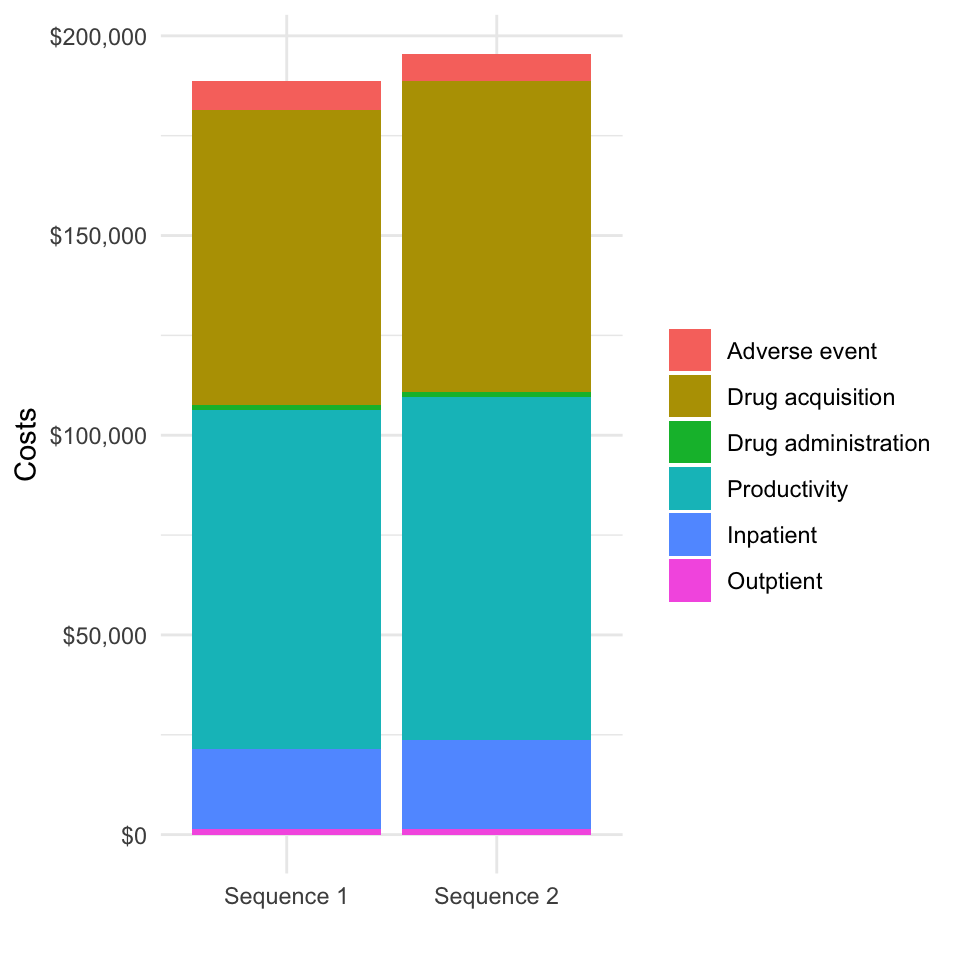
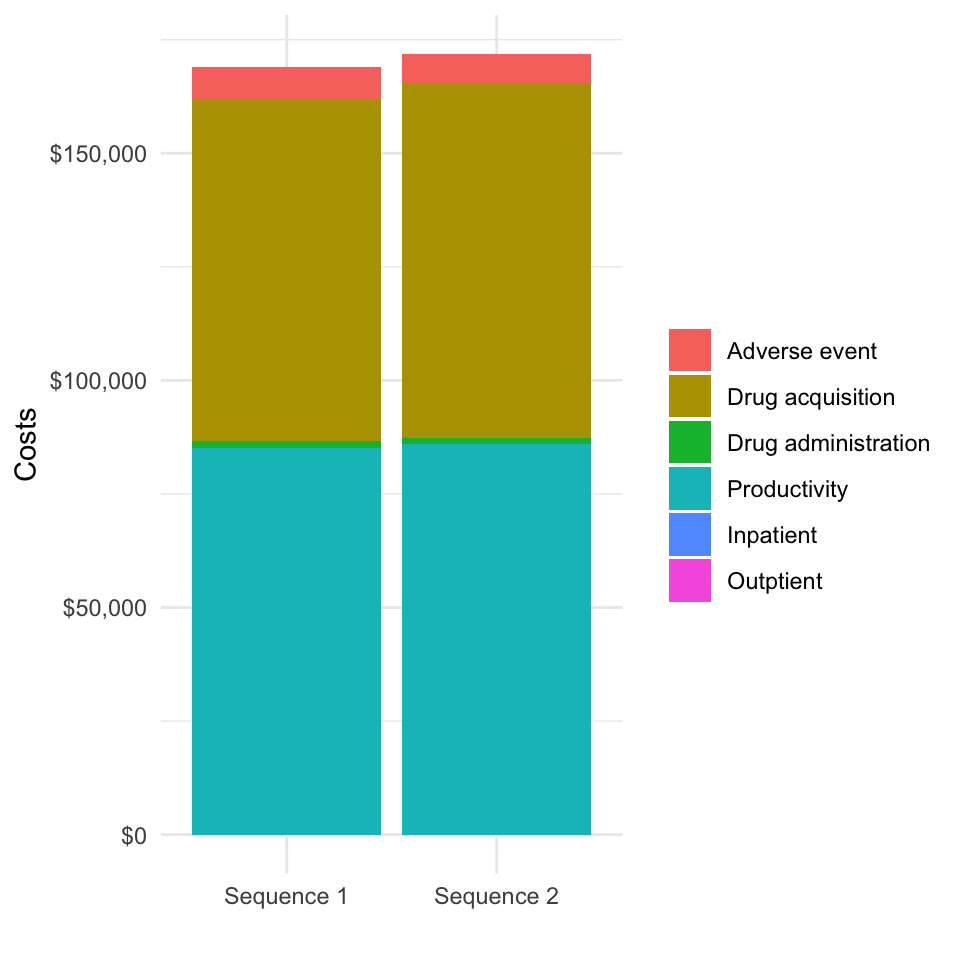
Update inpatient and outpatient parameter estimates

diff --git a/docs/articles/tutorial.html b/docs/articles/tutorial.html
@@ -243,12 +243,12 @@ tmat_3_2L &lt;-<span class="st"> </span><span class="kw"><a href="../reference/c
 transmod_data &lt;-<span class="st"> </span><span class="kw"><a href="../reference/create_transmod_data.html">create_transmod_data</a></span>(struct, tmat, pats)
 ## Print first 5 rows and and 10 covariates from data
 <span class="kw">print</span>(transmod_data[<span class="dv">1</span><span class="op">:</span><span class="dv">5</span>, <span class="dv">1</span><span class="op">:</span><span class="dv">10</span>]) </code></pre></div>
-<pre><code>##    strategy_id patient_id transition_id female    age mutation tx_abb
-## 1:           1          1             1      1 71.076        0    erl
-## 2:           1          1             2      1 71.076        0    erl
-## 3:           1          1             3      1 71.076        0   pbdc
-## 4:           1          1             4      1 71.076        0   pbdc
-## 5:           1          1             5      1 71.076        0   pbdc
+<pre><code>##    strategy_id patient_id transition_id female      age mutation tx_abb
+## 1:           1          1             1      0 64.90543        1    erl
+## 2:           1          1             2      0 64.90543        1    erl
+## 3:           1          1             3      0 64.90543        1    osi
+## 4:           1          1             4      0 64.90543        1    osi
+## 5:           1          1             5      0 64.90543        1    osi
 ##    tx_hist osi_s1p1_scale osi_s1d_scale
 ## 1:    &lt;NA&gt;              1             0
 ## 2:    &lt;NA&gt;              0             1
@@ -516,27 +516,27 @@ knitr<span class="op">::</span><span class="kw"><a href="http://www.rdocumentati
 <tr class="odd">
 <td>Incremental QALYs</td>
 <td align="left">-</td>
-<td align="left">0.06 (0.01, 0.11)</td>
+<td align="left">0.05 (0.00, 0.11)</td>
 </tr>
 <tr class="even">
 <td>Incremental costs ($)</td>
 <td align="left">-</td>
-<td align="left">5,824 (-5,761, 17,692)</td>
+<td align="left">2,241 (-9,316, 12,678)</td>
 </tr>
 <tr class="odd">
 <td>Incremental NMB ($)</td>
 <td align="left">-</td>
-<td align="left">-4 (-7,978, 7,786)</td>
+<td align="left">3,113 (-2,635, 10,327)</td>
 </tr>
 <tr class="even">
 <td>ICER ($ per QALY)</td>
 <td align="left">-</td>
-<td align="left">100,066</td>
+<td align="left">41,859</td>
 </tr>
 <tr class="odd">
 <td>Conclusion</td>
 <td align="left">-</td>
-<td align="left">Not cost-effective</td>
+<td align="left">Cost-effective</td>
 </tr>
 </tbody>
 </table>
@@ -606,23 +606,23 @@ knitr<span class="op">::</span><span class="kw"><a href="http://www.rdocumentati
 <tbody>
 <tr class="odd">
 <td>Life-years stable disease</td>
-<td align="left">0.43 (0.41, 0.46)</td>
+<td align="left">0.44 (0.41, 0.46)</td>
 <td align="left">0.51 (0.48, 0.53)</td>
 </tr>
 <tr class="even">
 <td>Life-years progressed 1L</td>
+<td align="left">0.18 (0.15, 0.21)</td>
 <td align="left">0.18 (0.15, 0.20)</td>
-<td align="left">0.18 (0.16, 0.20)</td>
 </tr>
 <tr class="odd">
 <td>Life-years progressed 2L</td>
-<td align="left">0.17 (0.14, 0.21)</td>
-<td align="left">0.17 (0.14, 0.21)</td>
+<td align="left">0.18 (0.15, 0.21)</td>
+<td align="left">0.17 (0.15, 0.21)</td>
 </tr>
 <tr class="even">
 <td>Health care sector costs</td>
-<td align="left">103,909 (92,888, 116,284)</td>
-<td align="left">109,733 (100,316, 120,494)</td>
+<td align="left">83,703 (72,865, 93,647)</td>
+<td align="left">85,944 (77,176, 94,369)</td>
 </tr>
 <tr class="odd">
 <td>Route of administration</td>
@@ -631,8 +631,8 @@ knitr<span class="op">::</span><span class="kw"><a href="http://www.rdocumentati
 </tr>
 <tr class="even">
 <td>Years since FDA approval</td>
-<td align="left">13.38 (13.30, 13.46)</td>
-<td align="left">4.10 (3.98, 4.23)</td>
+<td align="left">13.36 (13.27, 13.44)</td>
+<td align="left">4.08 (3.95, 4.20)</td>
 </tr>
 </tbody>
 </table>
@@ -664,33 +664,33 @@ knitr<span class="op">::</span><span class="kw"><a href="http://www.rdocumentati
 <tbody>
 <tr class="odd">
 <td>Life-years stable disease</td>
-<td align="left">16.95 (1.45, 33.22)</td>
-<td align="left">72.84 (53.97, 90.88)</td>
+<td align="left">26.10 (3.69, 46.89)</td>
+<td align="left">82.81 (61.13, 97.59)</td>
 </tr>
 <tr class="even">
 <td>Life-years progressed 1L</td>
-<td align="left">46.68 (11.74, 75.16)</td>
-<td align="left">46.36 (14.71, 88.23)</td>
+<td align="left">50.55 (19.81, 82.66)</td>
+<td align="left">48.83 (19.24, 75.31)</td>
 </tr>
 <tr class="odd">
 <td>Life-years progressed 2L</td>
-<td align="left">50.09 (20.06, 85.88)</td>
-<td align="left">51.06 (17.05, 86.15)</td>
+<td align="left">47.21 (15.51, 82.87)</td>
+<td align="left">40.62 (14.70, 79.42)</td>
 </tr>
 <tr class="even">
 <td>Health care sector costs</td>
-<td align="left">62.70 (30.91, 91.02)</td>
-<td align="left">47.74 (20.09, 71.94)</td>
+<td align="left">58.17 (26.15, 93.06)</td>
+<td align="left">50.95 (23.82, 79.18)</td>
 </tr>
 <tr class="odd">
 <td>Route of administration</td>
-<td align="left">46.75 (7.09, 80.14)</td>
-<td align="left">59.02 (20.79, 97.09)</td>
+<td align="left">41.68 (10.78, 72.74)</td>
+<td align="left">57.32 (30.42, 85.43)</td>
 </tr>
 <tr class="even">
 <td>Years since FDA approval</td>
-<td align="left">98.69 (97.92, 99.57)</td>
-<td align="left">1.38 (0.11, 2.71)</td>
+<td align="left">98.77 (97.78, 99.64)</td>
+<td align="left">1.97 (0.66, 3.19)</td>
 </tr>
 </tbody>
 </table>
